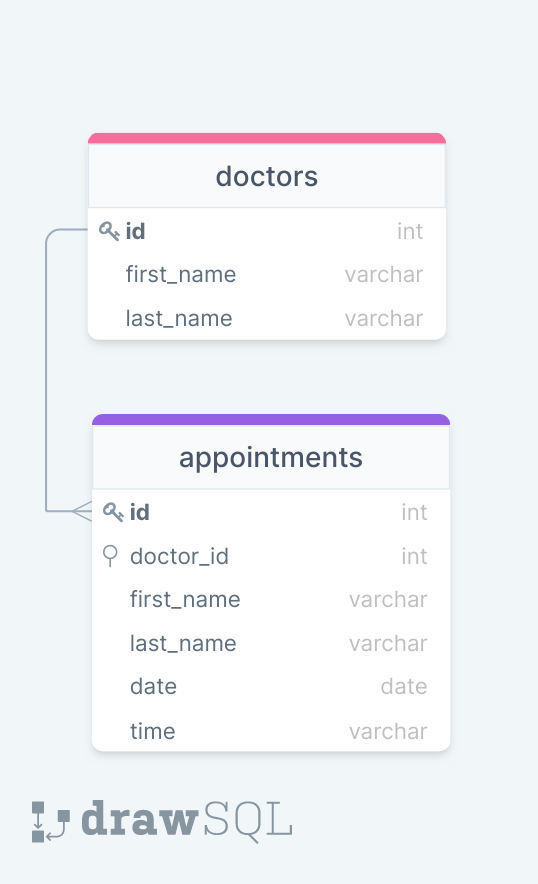
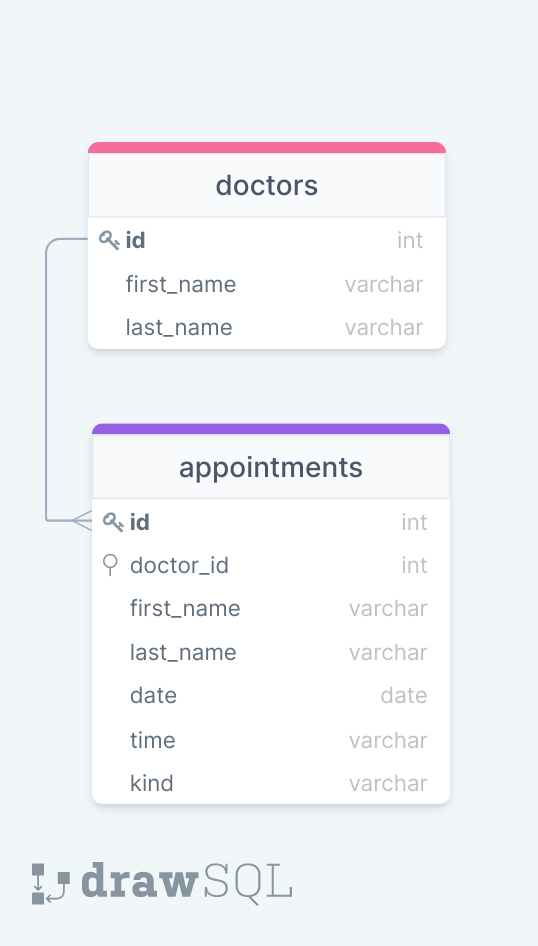
considered extras

diff --git a/repository/doctorRepository.js b/repository/doctorRepository.js
@@ -18,18 +18,30 @@ const appointments = [
         firstName: "Melly",
         lastName: "Jake",
         date: new Date(2022, 11, 31),
-        time: "8:15"
+        time: "8:15",
+        kind: "New Patient"
+    },
+    {
+        id: 2,
+        doctorId: 2,
+        firstName: "Mia",
+        lastName: "Freddy",
+        date: new Date(2022, 11, 31),
+        time: "8:15",
+        kind: "Follow-up"
     }
 ]
 
 const getDoctors = async () => doctors
 
 /** Day must be supplied as "YYYY-MM-DD" where MM is an integer 0-11 */
-const getDoctorAppointmentsByDay = async (doctorId, day) =>
-    appointments.map(el => el.doctorId === doctorId && el.date === new Date(...day.split("-")))
+const getDoctorAppointmentsByDay = async (doctorId, day) => {
+    const dateString = new Date(...day.split("-")).toString()
+    return appointments.filter(el => (el.doctorId === Number(doctorId)) && (el.date.toString() === dateString))
+}
 
 const deleteAppointmentById = async (appointmentId) =>
-    appointments.filter(el => el.id !== appointmentId)
+    appointments.filter(el => el.id !== Number(appointmentId))
 
 /**
  * New appointments can only start at 15 minute intervals
@@ -39,16 +51,28 @@ const deleteAppointmentById = async (appointmentId) =>
  * 3 appointments can be added with the same time for a given doctor
  *
  * @param {*} doctorId
+ *
+ * date and time must be supplied as "YYYY-MM-DD-HH-mm" where MM is an integer 0-11
  */
 const addAppointmentByDoctorId = async (doctorId, { name, time, kind }) => {
-    const [hours, minutes] = time.split(":")
+    const [year, month, day, hours, minutes] = time.split("-")
     const err = { err: "Meeting not within 15 min interval" }
     if (minutes & 15 !== 0) return err
-    const totalAppts = appointments.reduce((prev, curr) => curr.doctorId === 1 ? prev + 1 : prev, 0)
+    const totalAppts = appointments.reduce((prev, curr) => curr.doctorId === Number(doctorId) ? prev + 1 : prev, 0)
     if (totalAppts >= 3) return err
     else {
-        appointments.push({ name, time, kind })
-        return { succ: "Meeting successfully created" }
+        const [firstName, lastName] = name.split(" ")
+        const appointment = {
+            id: appointments.length + 1,
+            doctorId: doctorId,
+            firstName: firstName,
+            lastName: lastName,
+            date: new Date(year, month, day),
+            time: [hours, minutes].join(":"),
+            kind: kind
+        }
+        appointments.push(appointment)
+        return { succ: "Meeting successfully created", appts: appointments }
     }
 }
 

diff --git a/README.md b/README.md
@@ -22,7 +22,7 @@ Then run it using,
 npm run dev
 ```
 
-Interact with API endpoints using an HTTP tool like Postman
+Interact with API endpoints using an HTTP tool like Postman. All date related parameters are "-" separated values following `YYYY-MM-DD-HH-mm`
 
 ```txt
 GET /api/doctors
